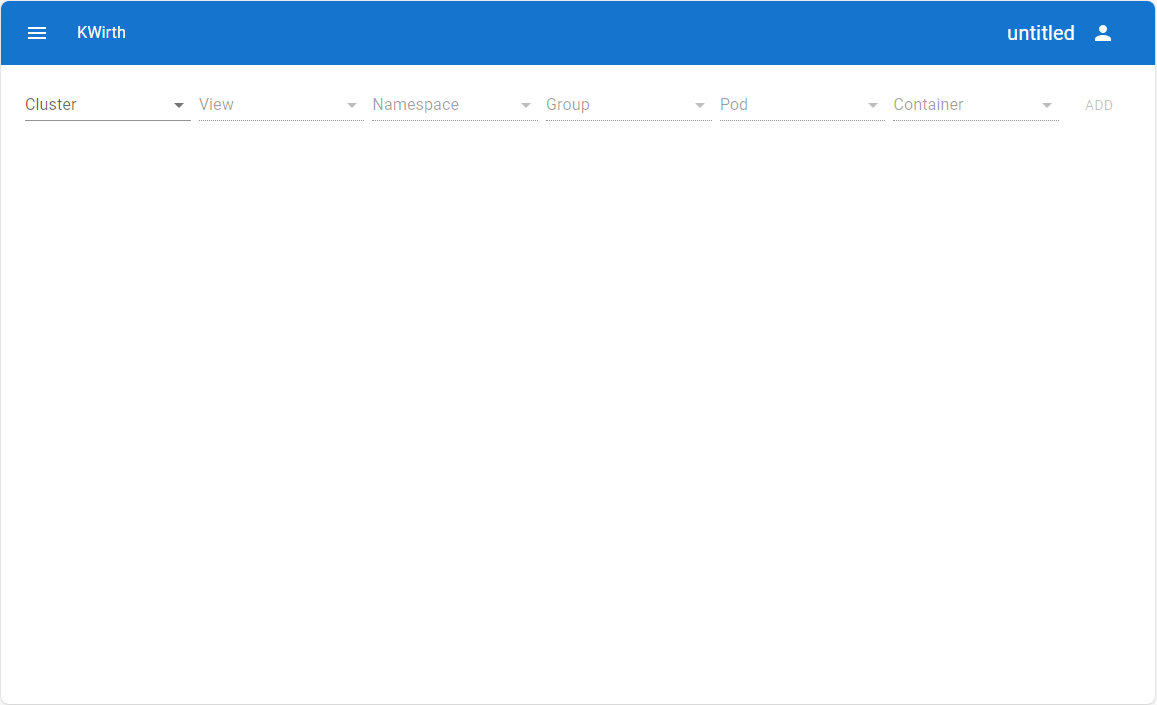
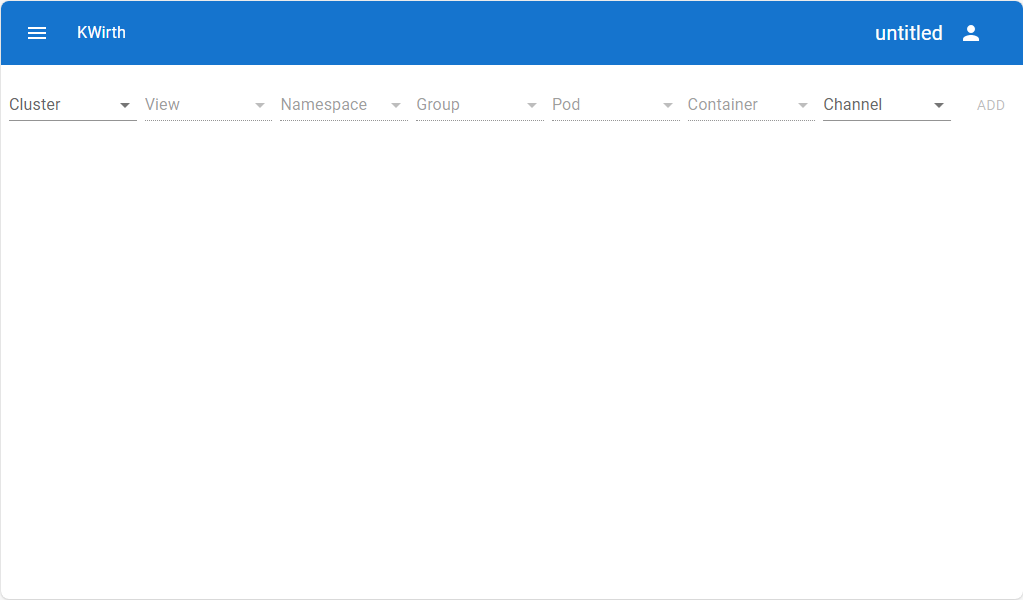
update docs

Changed region(s): [[0.0, 0.03, 1.0, 0.21], [0.0, 0.03, 0.1212, 0.06], [0.9697, 0.0, 1.0, 0.03]]

diff --git a/docs/datastreaming.md b/docs/datastreaming.md
@@ -1,20 +1,20 @@
 # Data streaming
 Kwirth, originally a log exporting system, can export **any** Kubernetes data in real time. In the very first versions only log data was exported from Kubernetes (through Kwirth streaming mechanisms). Starting with version 0.3, Kwirth can also export:
 
-  - Signaling data, that is, events related to control of the streams (info messages, error messaes and so on)
+  - Signaling data, that is, events related stream control (info messages, error messaes and so on)
   - Metrics data, that is, Kwirth can export Kubernetes metrics (container related metrics) in real time.
 
-And since version 0.4 source data is managed in **channels**, what represent in fact an extension mechanism for adding new functionality to Kwirth.
+And since **version 0.4** source data is managed in **channels**, what represent in fact an extension mechanism for adding new functionality to Kwirth. That is, th kind of data Kwirth exports is not managed nor produced at Kwirth core server. Channels are developed independently and can eb added or removed from a Kwirth core server. this way you can configure your Kiwrth to manage only the information you want to publish.
 
 ## How it works
 As you may know, it's up to Kwirth clients to open connections to Kwirth server, I mean, opening web sockets for requesting data. Opening a websocket from a client to Kwirth is free, that is, there are no security requirements for opening the web socket. Security comes into action once the web socket is open and you want to start receiving a stream of data, wherever it be log, metrics or anything else. It's important to note that a web socket is a non-dedicated transport, what means that an open web socket can be used to stream different kinds of data. For sending data from server to client in an ordered way, a web socket can be used as a transport for different **intances**. An instance is a stream of data with a common **scope** and a common **view** (aside form other common characteristics less relevant at this moment).
 
-  - **scope** is a spec of the kind of action you want to perform with the stream of data, for example:
+  - **scope** is a spec of the kind of action you want to perform with the source kuberntes objects through the data stream, for example:
     - View log lines
     - View pod status (obtaining real-time status streamed)
     - Receive metrics in real-time (a stream of metics in real-time)
     - Receive a metrics snapshot (just instant values with no streaming) 
-  - **view** means what group of data you want to receive, that is, if your view states a namespace, you can decide what data you want to receive, for example:
+  - **view** means what group of data you want to receive, that is, you can decide what are the source kubernetes object you want to work with. For example:
     - Receive data for a set of pods (selected, for example, via a regex).
     - Receive data for a whole namespace.
     - Receive consolidated log info from all the namespaces in the cluster.
@@ -24,7 +24,7 @@ It is important to understand what a **view** means:
   - If you open and start a streaming log channel, and your view is set to **namespace**, you will receive a stream of log lines including all the pods in the namespace.
   - Using the same scope, if your view is set to **container** you will receive a stream of log lines that are produced by all the containers that fulfill your scope declaration.
 
-Simply put, scope is the action you want to perform, and view is a the type of objects your want to work with (namespaces, groups, pods or containers)
+Simply put, scope is the action you want to perform, and view is the set of objects your want to work with (namespaces, groups, pods or containers)
 
 ## Messaging
 When a client opens a web socket, the next action is to send an 'start instance' message, that is, to send a message to the Kiwrth server explaining what kind of **streaming data** the client wants to receive.
@@ -49,7 +49,7 @@ A typical 'start instance' message would contain this information:
   - specific data for configuring the streaming service according to the type of service the client is starting, that is, log streaming requires specific configuration that is different from the one used in metrics streaming.
 
 ## Channels
-Up to this vesion of Kwirth, following streaming services are available.
+Up to this vesion of Kwirth, following streaming services, i.e., **channels**, are available.
 
 ### Log Streaming Service
 Log streaming means receiving log data streams at client that is originated at a set of resurces (or an individual one).
@@ -57,7 +57,7 @@ Log streaming means receiving log data streams at client that is originated at a
 A typical 'start log instance' message for receiving all log lines originated at 'production' namespace would be created like this (Typescript sample):
 
 ```javascript
-var logConfig:LogConfig = {
+var logConfig:InstanceConfig = {
     action: 'start',
     flow: 'request',
     channel: 'log',
@@ -71,6 +71,7 @@ var logConfig:LogConfig = {
     pod: '', 
     container: '',
     data: {
+      fromStart: false
       timestamp: true,
       previous: false,
       maxMessages: 5000
@@ -93,7 +94,7 @@ You will typically receive an answer like this one to that request:
 }
 ```
 
-With this example 'start instance' call you will receive one only stream of log merging information from 3 different namespace (production, qa and cert).
+With this 'start instance' example you will receive one only stream of log merging information from 3 different namespace (production, qa and cert).
 
 Following messages could be other 'signal' messages (from Kwirth to client). For example, next message is a signal message stating that a log for a specific container has started:
 
@@ -119,13 +120,13 @@ If everything is ok, the Kwirth server would start sending log messages. What fo
   "type": "data"
 }
 {
-"channel": "log",
-"container": "controller",
-"instance": "812afcd2-e8fd-4f3b-b157-08127707b677",
-"namespace": "ingress-nginx",
-"pod": "ingress-nginx-controller-7f6c7c5b59-tsls7",
-"text: "87.58.88.174 - - [25/Mar/2025:19:23:32 +0000] \"GET /api/logout HTTP/2.0\" 200 0 \"https://eulensecure.eulensecure.com/reports\" \"Mozilla/5.0 (Windows NT 10.0; Win64; x64) AppleWebKit/537.36 (KHTML, like Gecko) Chrome/133.0.0.0 Safari/537.36\" 68 0.154 [pro-eulen-gateway-platform-svc-8080] [] 10.0.5.123:8080 0 0.154 200 2b79e96150faecc9b9694c7ad851079b",
-"type": "data"  
+  "channel": "log",
+  "container": "controller",
+  "instance": "812afcd2-e8fd-4f3b-b157-08127707b677",
+  "namespace": "ingress-nginx",
+  "pod": "ingress-nginx-controller-7f6c7c5b59-tsls7",
+  "text: "87.58.88.174 - - [25/Mar/2025:19:23:32 +0000] \"GET /api/logout HTTP/2.0\" 200 0 \"https://www.google.com/reports\" \"Mozilla/5.0 (Windows NT 10.0; Win64; x64) AppleWebKit/537.36 (KHTML, like Gecko) Chrome/133.0.0.0 Safari/537.36\" 68 0.154 [gateway-platform-svc-8080] [] 10.0.5.123:8080 0 0.154 200 2b79e96150faecc9b9694c7ad851079b",
+  "type": "data"  
 }
 ```
 
@@ -137,24 +138,24 @@ Metrics streaming means sending resource metrics from server to client. When tal
 A typical 'metrics start' for receiving a stream of data about pod 'shopping-cart' IN A SET OF NAMESPACES would be created like this (Typescript sample):
 
 ```javascript
-var metricsConfig:MetricsConfig = {
-  "channel": "metrics",
-  "objects": "pods",
-  "action": "start",
-  "flow": "request",
-  "instance": "",
-  "accessKey": "2f945f32-5865-9f34-3f3e-437c5623c0c7|permanent|cluster:::::",
-  "scope": "subscribe",
-  "view": "namespace",
-  "namespace": "pro,kafka,ingress-nginx,default,data",
-  "group": "",
-  "pod": "shopping-cart",
-  "container": "",
-  "data": {
-    "mode": "stream",
-    "aggregate": false,
-    "interval": 5,
-    "metrics": ["container_blkio_device_usage_total_write"]
+var metricsConfig:InstanceConfig = {
+  channel: "metrics",
+  objects: "pods",
+  action: "start",
+  flow: "request",
+  instance: "",
+  accessKey: "2f945f32-5865-9f34-3f3e-437c5623c0c7|permanent|cluster:::::",
+  scope: "subscribe",
+  view: "namespace",
+  namespace: "pro,kafka,ingress-nginx,default,data",
+  group: "",
+  pod: "shopping-cart",
+  container: "",
+  data: {
+    mode: "stream",
+    aggregate: false,
+    interval: 5,
+    metrics: ["container_blkio_device_usage_total_write"]
   }
 }
 ws.send(JSON.stringify(metricsConfig))
@@ -162,7 +163,13 @@ ws.send(JSON.stringify(metricsConfig))
 If everything is ok, the Kwirth server would start sending metrics messages. What follows is a stream of JSON messages sent by Kwirth:
 
 ```json
-{"level":"info","channel":"metrics","instance":"9a3edb19-8c3f-44cc-8983-1ba3267c7d49","type":"signal","text":"Container ADDED: ingress-nginx/ingress-nginx-controller-7f6c7c5b59-tsls7/controller"}
+{
+  "level":"info",
+  "channel":"metrics",
+  "instance":"9a3edb19-8c3f-44cc-8983-1ba3267c7d49",
+  "type":"signal",
+  "text":"Container ADDED: ingress-nginx/ingress-nginx-controller-7f6c7c5b59-tsls7/controller"
+}
 ```
 
 And what follows is a sample of a metric message with metric data.

diff --git a/docs/commontasks.md b/docs/commontasks.md
@@ -1,6 +1,6 @@
 # Common Tasks
 
-## Your first log
+## Your first access
 The first time you access your fresh copy of Kwirth you must login with admin credentials, **admin/password** (yes the password is password).
 
  &nbsp;&nbsp;&nbsp;&nbsp;![login](./_media/login.png)
@@ -11,39 +11,40 @@ So, if everything is ok (and you have changed your password, you cannot continue
 
 What you can see in the main Kwirth is:
 
-  - The toolbar, with your login info (the user on the right), the name of the current board (just on the left of the user), we will see later what is a board. On the very left you'll find the access to the main menu, the burger icon.
+  1. The toolbar, with your login info (the user on the right), the name of the current board (just on the left of the user), we will see later what is a board. On the very left you'll find the access to the main menu, the burger icon.
 
     ![toolbar](./_media/toolbar.png)
 
-  - The resource selector. This is one of the most important things in Kwirth.
+  2. The resource selector. This is one of the most important things in Kwirth.
   
     ![resource selector](./_media//resource-selector.png)
 
     The resource selector is the tool you use to select what kubernetes objects you want to work with. It has **7 selectors** and the 'add' button (to add the objects to the board):
     - **Cluster**. You can see here the list of Kubernetes clusters you have access to. You use this selector to decide what log to add to your board.
-    - **Scope**. Once you select the cluster you must decide the scope of the log you want to add. You can add information that targets the whole cluster (yes, you can consolidate all the information you want of your cluster in one only point), a whole namespace (all the pods in a namespace) or one only pod (a pod log can include replica sets, daemon sets and stateful sets). *To have a cluster scope, you should select all namespaces*.
+    - **View**. Once you select the cluster you must decide the size of the 'view' you want to add. You can add information that targets a whole cluster (yes, you can consolidate all the information you want of your cluster in one only point), a whole namespace (all the pods in a namespace), one only pod (a pod log can include replica sets, daemon sets and stateful sets), or a set of containers (*To have a cluster scope, you should select all namespaces*).
     - **Namespace**. Select here the list of namespaces you want to work with.
-    - **Group**. If your scope is 'group' or lower, you can select here what group inside the namespace you want to work with. In the selector you will see *replica sets*, *stateful sets* and *daemons sets*.
-    - **Pod**. If the scope is 'pod' or lower, you must select what pod/pods you want to use as source object.
-    - **Container**. If the scope is 'container', you must decide here what container/containers you want to use as source.
-  - The main menu gives you access to several configuration and operation options of your Kwirth installation.
+    - **Group**. If your view is 'group' or lower, you can select here what group inside the namespaces you selected you want to work with. In the selector you will see *replica sets*, *stateful sets* and *daemons sets*.
+    - **Pod**. If the view is 'pod' or lower, you must select what pod/pods you want to use as source object (from a list made of all the namespaces and groups you selected).
+    - **Container**. If the view is 'container', you must decide here what container/containers you want to use as source for the data stream. Avaliable containers are thos that live in the pods you selected.
+    - **Channel**. Prior to add a resource to the board, you need to specify what kind of information you want to work with. So you must select 'log', 'metrics', 'alert' or whatever channel your Kwirth core server have installed. Read information on (channels here)[chanels].
+  3. The main menu gives you access to several configuration and operation options of your Kwirth installation.
 
     ![main menu](./_media/main-menu.png)
 
     These are the actions in the menu:
     - In the first block you can manage your boards by creating (new), loading (load) saving (save and 'save as') and deleting boards.
     - Next you have options for exporting your boards to a file or import them from a file.
-    - Next option  is 'USer settings'. In user setting panel you can configure default behaviours of your channels, like maximum number of mesages in a log, adding timestamp to log lines, interval for refreshing metrics...
+    - Next option  is 'User settings'. In user setting panel you can configure default behaviours for your channels, like maximum number of messages in a log, adding timestamp to log lines, setting the interval for refreshing metrics...
     - Next option is 'Cluster settings', where you can set some cluster-wide settings of Kwirth, like, for example, the interval Kwirth use to extract metrics from node's cAdvisor.
-    - 'Manage cluster security' gives you the chance to manage other clusters you want to **access from this Kwirth**.
-    - 'API security' allows viewing and managing API keys you can create to share with other parties.
+    - 'Manage cluster security' gives you the chance to (manage other clusters)[clustermanagement] you want to **access from this Kwirth**.
+    - 'API security' allows viewing and (managing API keys)[apimanagement] you can create to share with other parties.
     - 'User security' is for managing users that will have access to this instance of Kwirth.
     - Update Kwirth' (an *admin option* only permforms a Kwirth restart), so if you deployed Kwirth with 'latest' tag in the OCI image, Kwirth will restart with the **newest version**.`
     - **Exit Kwirth**, just logging you off.
-    - At the very end of the menu you will find the version of the Kwirth you are workking with.
+    - At the very end of the menu you will find the version of the Kwirth you are working with.
 
 
-### The *boards*
+## The *boards*
 A board is a set of channel views, where a channel view can have different forms depending on its configuration:
 
   - A board is a set of tabs.
@@ -58,4 +59,4 @@ Where the content of the board is as follows:
   - Tabs with log objects.
   - Tabs with metrics (chart views).
   - Tabs with alert systems.
-  - Tabs names can be colored indicating: the tab has new content (pink), the tab is runnig, or the tab is paused (gray).
+  - Tabs names can be colored indicating: the tab has new content pending (pink), the tab is runnig, or the tab is paused (gray).

diff --git a/docs/how.md b/docs/how.md
@@ -2,8 +2,9 @@
 Basically, Kwirth receives object information from objects that live in one or more Kubernetes clusters in real-time, and with the data received you can do several thinks depending on your role.
 
   - Kwirth can be used on Operations areas for detecting exceptional situations.
-  - It can also be used by development teams for reviewing logs of the services deployed to the cluster.
   - A Security team (a SOC) can also configure alerts on messages received from the source logs.
+  - Devops teams can view real-time metrics of kubernetes clusters under control.
+  - It can also be used by development teams for reviewing logs of the services deployed to the cluster.
 
 # Architecture
 As we said before, Kwirth needs just one pod **with no persistence** for running (yes, you don't have to deal with PV's PVC's, NFS, CIFS, local disks and so on). Kwirth stores its identity objects (users) in Kubernetes secrets, that is: **in etcd**. In addition, all user configuration is also stored in config maps, so, **etcd** again.

diff --git a/docs/channels.md b/docs/channels.md
@@ -125,4 +125,4 @@ And this is what each property means:
  - **reconnectKey**. Is a reconnect key (obtained when starting an instance) that you can use to reconnect a broken web socket connection.
  - **data**. This is a generic holder for your channel specific data.
 
-This strucutre (and some others) as well as some 'enums', are included in the **@jfvilas/kwirth-common** package.
+This strucutre (and some others) as well as some 'enums', are included in the (**@jfvilas/kwirth-common**)[https://www.npmjs.com/package/@jfvilas/kwirth-common] package.

diff --git a/docs/apimanagement.md b/docs/apimanagement.md
@@ -7,7 +7,7 @@ But there are situations in which you may want to create and share an API key fo
 
 The API management tool (named **API Security**) is on the main menu (the burger icon) but is only visible to admins and users holding an *scope* of type 'API'.
 
-![api security menu option](api-security-menu-option.png)
+![api security menu option](./_media/api-security-menu-option.png)
 
 ## API Keys explained
 An API key requires the following information to be created:
